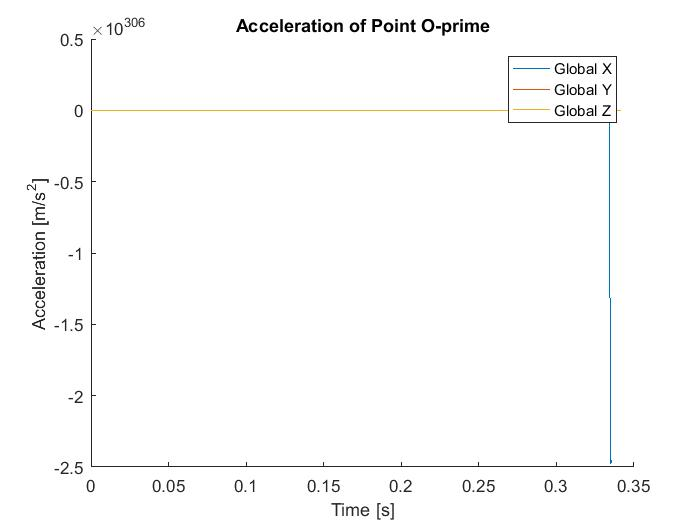
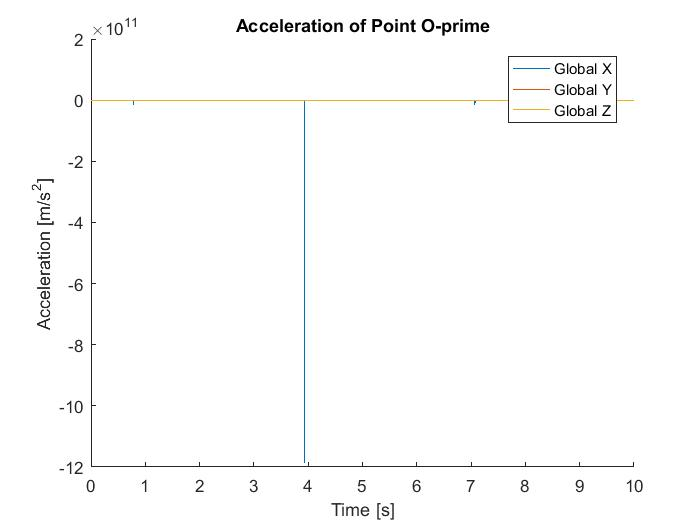
Add files via upload

diff --git a/phi_ep.m b/phi_ep.m
@@ -18,19 +18,19 @@ function [phi,nu,gamma,phi_r,phi_p] = phi_ep(q,q_d,i)
 %% Setup
 
 nb = length(q)/7;
-pi = q([4*(i-1)+3*nb+1:4*(i-1)+3*nb+4]);
-pi_d = q_d([4*(i-1)+3*nb+1:4*(i-1)+3*nb+4]);
+p = q([4*(i-1)+3*nb+1:4*(i-1)+3*nb+4]);
+p_d = q_d([4*(i-1)+3*nb+1:4*(i-1)+3*nb+4]);
 
 
 %% Evaluate Quantities
 
-phi = pi'*pi-1;
+phi = p'*p-1;
 nu = 0; %nu = -phi_t
-gamma = -2*pi_d'*pi_d;
+gamma = -2*p_d'*p_d;
 
 phi_r = zeros(1,3*nb);  %by definition
 phi_p = zeros(1,4*nb);
-phi_pi = 2*pi';
+phi_pi = 2*p';
 if i ~= 0
     phi_p(4*(i-1)+1:4*(i-1)+4) = phi_pi;
 end

diff --git a/phi_d.m b/phi_d.m
@@ -66,15 +66,16 @@ d_d = rj_d+Bj*pj_d-ri_d-Bi*pi_d; %derivative of vector from point p to q
 
 %% Evaluate Quantities
 phi = d'*d-dis(1);
-nu = -2*d'*d_d+dis(2);
+% nu = -2*d'*d_d+dis(2);
+nu = dis(2);
 gamma = -2*d'*Bj_d*pj_d+2*d'*Bi_d*pi_d-2*d_d'*d_d+dis(3);
 
 phi_r = zeros(1,3*nb);
-phi_ri = -d';
-phi_rj = d';
+phi_ri = -2*d';
+phi_rj = 2*d';
 phi_p = zeros(1,4*nb);
-phi_pi = -d'*Bi;
-phi_pj = d'*Bj;
+phi_pi = -2*d'*Bi;
+phi_pj = 2*d'*Bj;
 if i ~= 0
     phi_r(3*(i-1)+1:3*(i-1)+3) = phi_ri;
     phi_p(4*(i-1)+1:4*(i-1)+4) = phi_pi;

diff --git a/phi_dp1.m b/phi_dp1.m
@@ -63,13 +63,13 @@ f_dd = -norm(ai)*norm(aj)*(cos(theta(1))*theta(2)^2+sin(theta(1))*theta(3));
 %% Evaluate Quantities
 
 phi = ai_b'*Ai'*Aj*aj_b-f;
-nu = -ai'*Bj*pj_d-aj'*Bi*pi_d+f_d; %nu = -phi_t
+nu = f_d;
 gamma = -ai'*Bj_d*pj_d-aj'*Bi_d*pi_d-2*(Bi*pi_d)'*(Bj*pj_d)+f_dd;
 
 phi_r = zeros(1,3*nb);  %by definition for DP1
 phi_p = zeros(1,4*nb);
-phi_pi = aj_b'*Aj'*Bi;
-phi_pj = ai_b'*Ai'*Bj;
+phi_pi = aj'*Bi; 
+phi_pj = ai'*Bj;
 if i ~= 0
     phi_p(4*(i-1)+1:4*(i-1)+4) = phi_pi;
 end

diff --git a/phi_dp2.m b/phi_dp2.m
@@ -78,14 +78,15 @@ f_dd = -norm(ai)*norm(d)*(cos(theta(1))*theta(2)^2+sin(theta(1))*theta(3));
 %% Evaluate Quantities
 
 phi = ai'*d-f;
-nu = -ai'*d_d-d'*Bia*pi_d+f_d; %nu = -phi_t
+% nu = -ai'*d_d-d'*Bia*pi_d+f_d; %nu = -phi_t
+nu = f_d;
 gamma = -ai'*Bjq_d*pj_d+ai'*Bip_d*pi_d-d'*Bia_d*pi_d-2*(Bia*pi_d)'*d_d+f_dd;
 
 phi_r = zeros(1,3*nb);
 phi_ri = -ai';
 phi_rj = ai';
 phi_p = zeros(1,4*nb);
-phi_pi = -ai'*Bip-sp_ib'*Ai'*Bia;
+phi_pi = -ai'*Bip+d'*Bia;
 phi_pj = ai'*Bjq;
 
 if i ~= 0

diff --git a/phi_cd.m b/phi_cd.m
@@ -65,7 +65,8 @@ end
 
 %% Evaluate Quantities
 phi = c'*(rj+Aj*sq_jb-ri-Ai*sp_ib)-dis(1);
-nu = -c'*(rj_d+Bj*pj_d-ri_d-Bi*pi_d)+dis(2);
+% nu = -c'*(rj_d+Bj*pj_d-ri_d-Bi*pi_d)+dis(2);
+nu = dis(2);
 gamma = c'*(Bi_d*pi_d-Bj_d*pj_d)+dis(3);
 
 phi_r = zeros(1,3*nb);
@@ -73,7 +74,7 @@ phi_ri = -c';
 phi_rj = c';
 phi_p = zeros(1,4*nb);
 phi_pi = -c'*Bi;
-phi_pj = c'*Bi;
+phi_pj = c'*Bj;
 if i ~= 0
     phi_r(3*(i-1)+1:3*(i-1)+3) = phi_ri;
     phi_p(4*(i-1)+1:4*(i-1)+4) = phi_pi;

diff --git a/simEngine3D_A6P3.m b/simEngine3D_A6P3.m
@@ -156,6 +156,7 @@ ylabel('Acceleration [m/s^2]')
 xlabel('Time [s]')
 legend('Global X','Global Y','Global Z')
 
+
 figure
 hold on
 plot(t,Q(1,:))
